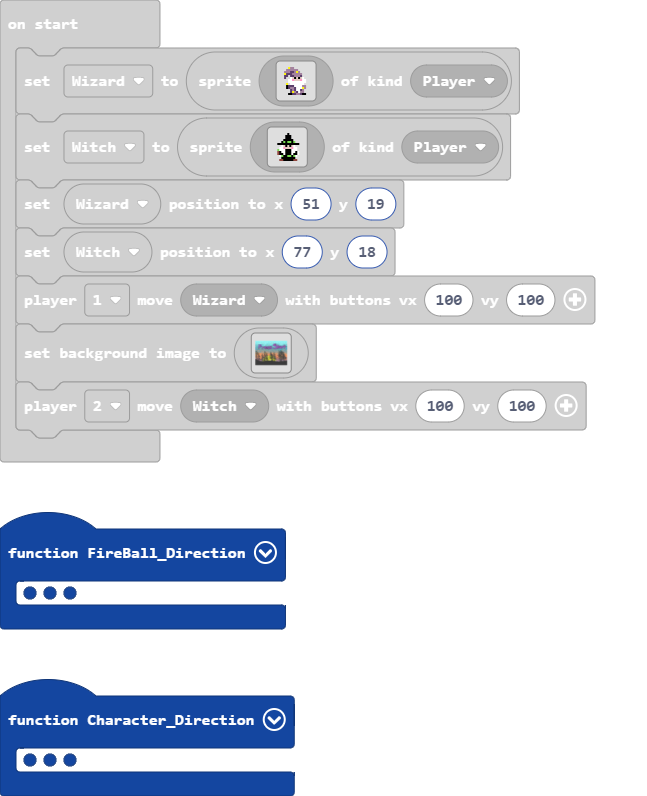
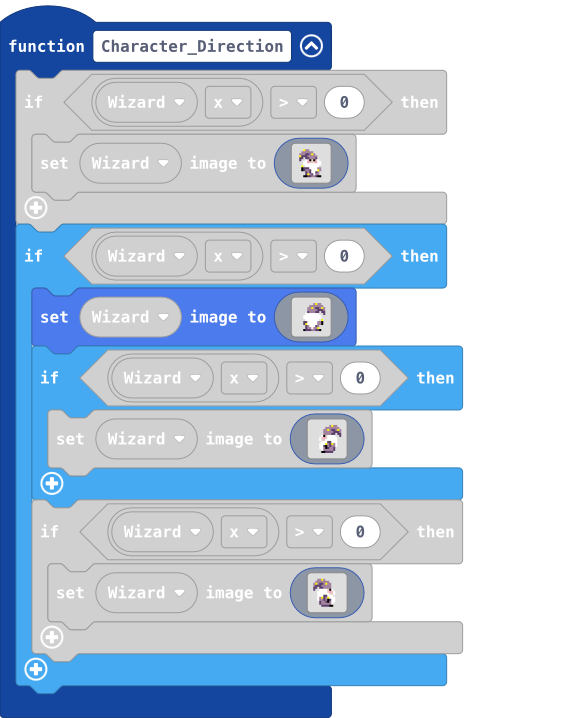
Update main.blocks, main.ts

diff --git a/main.ts b/main.ts
@@ -64,82 +64,82 @@ function Character_Direction () {
     if (Wizard.x > 0) {
         Wizard.setImage(img`
             . . . . . . . . . . . . . . . . 
-            . . . . . . . . . . . . . . . . 
-            . . . . . . . . . . . . . . . . 
-            . . . . . . . . . . . . . . . . 
-            . . . . . . . . . . . . . . . . 
-            . . . . . . . . . . . . . . . . 
-            . . . . . . . . . . . . . . . . 
-            . . . . . . . . . . . . . . . . 
-            . . . . . . . . . . . . . . . . 
-            . . . . . . . . . . . . . . . . 
-            . . . . . . . . . . . . . . . . 
-            . . . . . . . . . . . . . . . . 
-            . . . . . . . . . . . . . . . . 
-            . . . . . . . . . . . . . . . . 
-            . . . . . . . . . . . . . . . . 
-            . . . . . . . . . . . . . . . . 
-            `)
-    }
-    if (Wizard.x > 0) {
-        Wizard.setImage(img`
-            . . . . . . . . . . . . . . . . 
-            . . . . . . . . . . . . . . . . 
-            . . . . . . . . . . . . . . . . 
-            . . . . . . . . . . . . . . . . 
-            . . . . . . . . . . . . . . . . 
-            . . . . . . . . . . . . . . . . 
-            . . . . . . . . . . . . . . . . 
-            . . . . . . . . . . . . . . . . 
-            . . . . . . . . . . . . . . . . 
-            . . . . . . . . . . . . . . . . 
-            . . . . . . . . . . . . . . . . 
-            . . . . . . . . . . . . . . . . 
-            . . . . . . . . . . . . . . . . 
-            . . . . . . . . . . . . . . . . 
-            . . . . . . . . . . . . . . . . 
+            . . . . 5 b b . . . . . . . . . 
+            . . . b b b b b b . . . . . . . 
+            . . b b b c c b 5 b . . . . . . 
+            . . 5 c c c b b b b b . . . . . 
+            . . c c . c c b b b c . . . . . 
+            . . c . . 1 d f d f d 1 . . . . 
+            . . . . 1 1 3 d d d 3 1 1 . . . 
+            . . . . 1 1 1 1 1 1 1 1 1 . . . 
+            . . . 5 . 1 1 1 1 1 1 1 . . . . 
+            . . . f c c c 1 1 1 1 b b . . . 
+            . . . f c b b c 1 1 1 5 b . . . 
+            . . . . . c b c 1 1 c b . . . . 
+            . . . . . c 5 b c 1 b b . . . . 
+            . . . . f f c c b b c f f . . . 
             . . . . . . . . . . . . . . . . 
             `)
     }
     if (Wizard.x > 0) {
         Wizard.setImage(img`
             . . . . . . . . . . . . . . . . 
-            . . . . . . . . . . . . . . . . 
-            . . . . . . . . . . . . . . . . 
-            . . . . . . . . . . . . . . . . 
-            . . . . . . . . . . . . . . . . 
-            . . . . . . . . . . . . . . . . 
-            . . . . . . . . . . . . . . . . 
-            . . . . . . . . . . . . . . . . 
-            . . . . . . . . . . . . . . . . 
-            . . . . . . . . . . . . . . . . 
-            . . . . . . . . . . . . . . . . 
-            . . . . . . . . . . . . . . . . 
-            . . . . . . . . . . . . . . . . 
-            . . . . . . . . . . . . . . . . 
-            . . . . . . . . . . . . . . . . 
-            . . . . . . . . . . . . . . . . 
-            `)
-    }
-    if (Wizard.x > 0) {
-        Wizard.setImage(img`
-            . . . . . . . . . . . . . . . . 
-            . . . . . . . . . . . . . . . . 
-            . . . . . . . . . . . . . . . . 
-            . . . . . . . . . . . . . . . . 
-            . . . . . . . . . . . . . . . . 
-            . . . . . . . . . . . . . . . . 
-            . . . . . . . . . . . . . . . . 
-            . . . . . . . . . . . . . . . . 
-            . . . . . . . . . . . . . . . . 
-            . . . . . . . . . . . . . . . . 
-            . . . . . . . . . . . . . . . . 
-            . . . . . . . . . . . . . . . . 
-            . . . . . . . . . . . . . . . . 
-            . . . . . . . . . . . . . . . . 
-            . . . . . . . . . . . . . . . . 
+            . . . . . . . . . b 5 b b . . . 
+            . . . . . . . b b b b b b b . . 
+            . . . . . . b b 5 b c c b 5 b . 
+            . . . . . . b b b b b c c c b . 
+            . . . . . . c b b b c c . c c . 
+            . . . . . 1 1 1 1 1 1 1 . . c . 
+            . . . . 1 1 1 1 1 1 1 1 1 . . . 
+            . . . . 1 1 1 1 1 1 1 1 1 . . . 
+            . . . . . 1 1 1 1 1 1 1 . 5 . . 
+            . . . . c c 1 1 1 1 1 b b f . . 
+            . . . . c 5 1 1 1 1 1 b b f . . 
+            . . . . . c b 1 1 1 c b . . . . 
+            . . . . . c b b 1 b b 5 . . . . 
+            . . . . f c c c b b c c f . . . 
             . . . . . . . . . . . . . . . . 
             `)
+        if (Wizard.x > 0) {
+            Wizard.setImage(img`
+                . . . . . . . . . . . . . . . . 
+                . . . . . . . . . b 5 b b . . . 
+                . . . . . . . b b b b b b b . . 
+                . . . . . . b b 5 b c c b 5 b . 
+                . . . . . . b b b b b c c c b . 
+                . . . . . . b b b b c c . c c . 
+                . . . . . 1 f d 1 1 1 1 . . c . 
+                . . . . 1 d 3 d 1 1 1 1 1 . . . 
+                . . . . 1 d d 1 1 1 1 1 1 . . . 
+                . . . . . 1 1 1 c c 1 1 1 . . . 
+                . . . . 1 1 1 5 b c 5 b 1 . . . 
+                . . . . 1 1 c f b c b b 1 . . . 
+                . . . . 1 1 b f c b b c . . . . 
+                . . . . . 1 b b b b b c . . . . 
+                . . . . . f f c c c c . . . . . 
+                . . . . . . . . . . . . . . . . 
+                `)
+        }
+        if (Wizard.x > 0) {
+            Wizard.setImage(img`
+                . . . . . . . . . . . . . . . . 
+                . . . b b 5 b . . . . . . . . . 
+                . . b b b b b b b . . . . . . . 
+                . b 5 b c c b 5 b b . . . . . . 
+                . b c c c b b b b b . . . . . . 
+                . c c . c c b b b b . . . . . . 
+                . c . . 1 1 1 1 d f 1 . . . . . 
+                . . . 1 1 1 1 1 d 3 d 1 . . . . 
+                . . . 1 1 1 1 1 1 d d 1 . . . . 
+                . . . 1 1 1 c c 1 1 1 . . . . . 
+                . . . 1 b 5 c b 5 1 1 1 . . . . 
+                . . . 1 b b c b f c 1 1 . . . . 
+                . . . . c b b c f b 1 1 . . . . 
+                . . . . c b b b b b 1 . . . . . 
+                . . . . . c c c c f f . . . . . 
+                . . . . . . . . . . . . . . . . 
+                `)
+        }
     }
 }
 let level = 0
